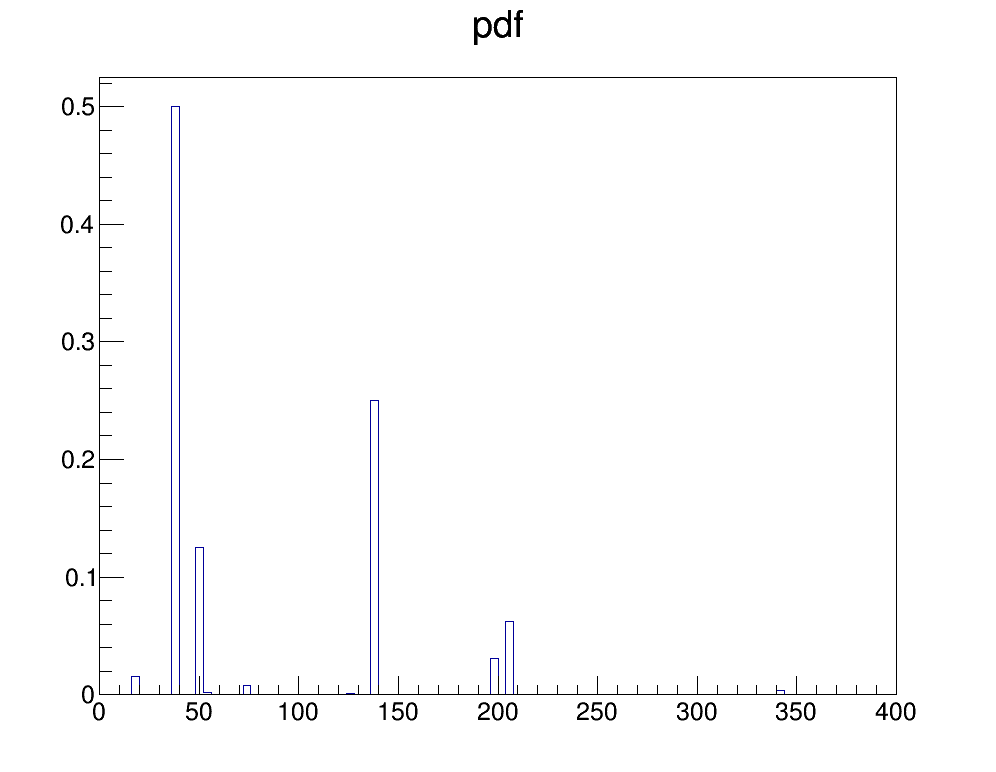
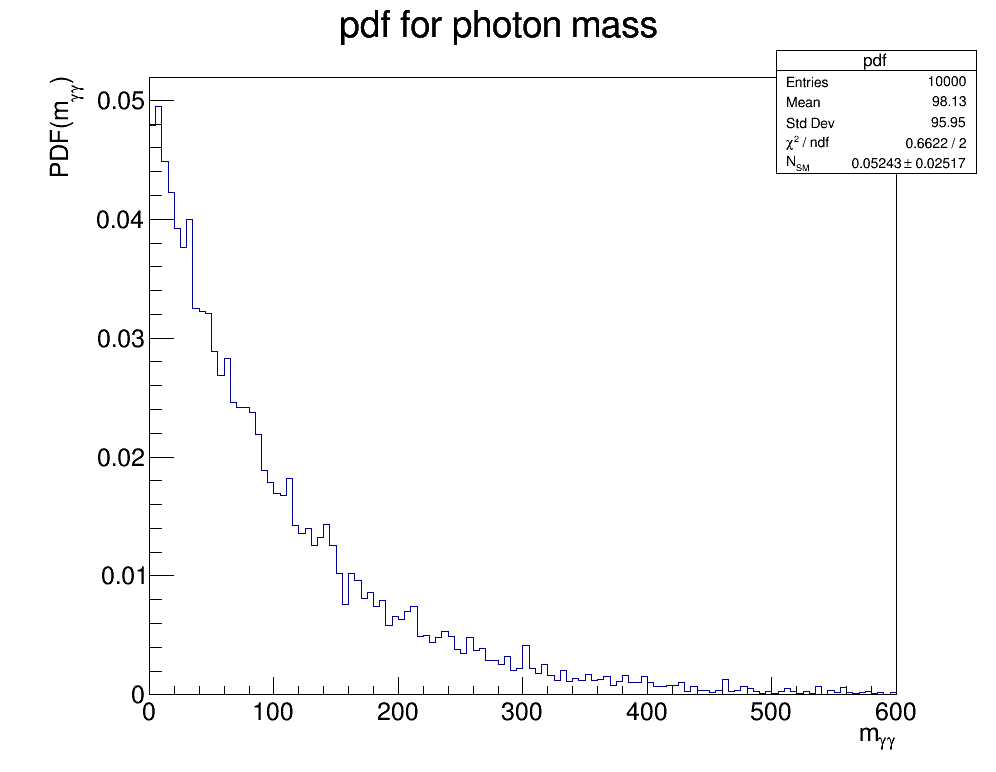
Zad 1 rijesen

diff --git a/Vjezbe_14/Analyzer.cpp b/Vjezbe_14/Analyzer.cpp
@@ -5,58 +5,59 @@
 void Analyzer::GenerateTstatistic()
 {
     const double zeta = 100., Pvalue = 0.05;
-    const int Nevents = 1.0e4, Mexperiments = 1000, sirinaProzora = 20, histoXmax = 400.;
+    const int Nevents = 1.0e4, Mexperiments = 1000, sirinaProzora = 20, sirinaBina = 5., histoXmax = 600.;
     Double_t masaFotona, xmin, xmax, xProzor, chi2;
     int Nprozora = histoXmax/sirinaProzora;
+    int brojBinova = histoXmax/sirinaBina;
+
+    TCanvas *c = new TCanvas("c", "pdf", 0,0,1000,800);
 
     TRandom3 *rand_gen = new TRandom3();
-    TH1F *h_tstat = new TH1F("t statistic", "t statistic", 100., 0., 400.);
-    TH1F *h_pdf  = new TH1F("pdf", "pdf", 100., 0., histoXmax);
+    TH1F *h_tstat = new TH1F("t_statistic", "t statistic;t;g(t, H_{0})", 100., 0., 20.); // ne znan dokle ce ici vrijednost chi2 -> promijenila nakon sto sam vidjela graf
+    TH1F *h_pdf  = new TH1F("pdf", "pdf for photon mass;m_{#gamma#gamma};PDF(m_{#gamma#gamma})", brojBinova, 0., histoXmax); // kaze "koraci po 5 GeV" -> valjda misli na sirinu bina u pdf-u?
 
-    TF1 *f_pdf;
-    
+    TF1 *f_pdf = new TF1("f_pdf", "[0]*exp(-x/[1])", 0., histoXmax);
+    f_pdf->FixParameter(1, zeta);
+    f_pdf->SetParameter(0, 1.);
+    f_pdf->SetParNames("N_{SM}", "#zeta_{SM}");
+    f_pdf->SetParError(0, 5); //mozda je ovo taj step size?
+
     for(int j = 0; j < Mexperiments; j++){
 
         h_pdf->Reset(); //isprazni h_pdf
         for(int i = 0; i < Nevents; i++){
             masaFotona = rand_gen->Exp(zeta);
-            if(j==0 && i%10==0) std::cout << masaFotona << "\n";
-            
+            //if(j==0 && i%1000==0) std::cout << masaFotona << "\n";
             h_pdf->Fill(masaFotona);
-            h_pdf->Scale( 1.0/h_pdf->Integral() );
         }
+        h_pdf->Scale( 1.0/h_pdf->Integral() );
         
         // I sad nakon svakog eksperimenta fitat po prozorima sirine 20 GeV-a
         for(int k = 0; k < Nprozora; k++){
             xmin = k*sirinaProzora;
             xmax = xmin + sirinaProzora;
-            //std::cout << xmin << "   " << xmax << "\n";
-            f_pdf = new TF1("f_pdf", "[0]*exp(-x/[1])", xmin, xmax);
-            f_pdf->FixParameter(1, zeta);
-            f_pdf->SetParameter(0, 1000.);
-            f_pdf->SetParNames("N_{SM}", "#zeta_{SM}");
+            //std::cout << "xmin = " << xmin << "\n" << "xmax = " << xmax << "\n";
+            //f_pdf->SetRange(xmin, xmax); // NE OVO!
 
-            /*auto ptr = h_pdf->Fit(f_pdf);
-            chi2 = ptr->Chi2();*/
-            // ILI
+            h_pdf->Fit(f_pdf, "Q", "", xmin, xmax); // Q=minimum printing, ,fitting range
+
             chi2 = f_pdf->GetChisquare();
-            h_tstat->Fill(chi2);            
-
-        } 
-
-
+            h_tstat->Fill(chi2);
+            //std::cout << "j=" << j << ", fit od " << xmin << " do " << xmax << ", chi2 =" << chi2 << "\n";
+        }
     }
+    h_tstat->Scale( 1.0/h_tstat->Integral() );
 
-    TCanvas *c = new TCanvas("c", "pdf", 0,0,1000,800);
-    gStyle->SetOptStat(0);
+    gStyle->SetOptStat();
     gStyle->SetOptFit();
-    //hist->Scale( 1.0/hist->Integral() );
+    gPad->SetLeftMargin(0.15);
+
     h_pdf->Draw("hist");
     c->SaveAs("pdf.png");
 
-    TCanvas *c1 = new TCanvas("c1", "t statistic", 0,0,1000,800);
+    c->Clear();
     h_tstat->Draw("hist");
-    c1->SaveAs("t_stat_chi2.png");
+    c->SaveAs("t_stat_chi2.png");
 
     /*pValue = hist->Integral( hist->FindBin(tStat), hist->FindBin(170.) );
     std::cout << "P value observed = " << pValue << "\n";

diff --git a/Vjezbe_14/Analyzer.h b/Vjezbe_14/Analyzer.h
@@ -19,6 +19,7 @@
 #include <TMath.h>
 #include <TF1.h>
 #include <TFitResult.h>
+//#include <ParameterSettings.h> //za step size?
 
 // Header file for the classes stored in the TTree if any.
 
